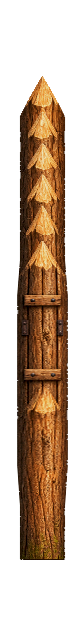
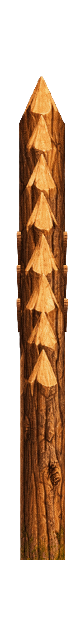
fix(art): correct edge-on palisade gate perspective
Preserve eight pointed stakes and a flat base, with subtle lateral wooden slat tops only. Reuse the same right-lit 84x630 RGBA sprite for east and west; retain placement anchors and update caches.

diff --git a/index.html b/index.html
@@ -408,11 +408,11 @@ Ihre Form wird ausschließlich im Bergwerkzeug eingestellt. Ihre Deckkraft folgt
 window.VedrasCloudsDisabled=new URLSearchParams(location.search).get('clouds')!=='1';</script>
 <script src="asset-image-pool.js?v=0.3.1&amp;step11=20261028"></script><script src="render-quality-policy.js?v=0.1.0&amp;terrain=quality-source-20261117"></script><script src="gpu-terrain.js?v=0.2.0&amp;uvHighp=20261122"></script><script src="strategic-view.js?v=0.1.0"></script><script src="static-terrain-cache.js?v=0.1.0"></script><script src="render-benchmark-profiler.js?v=0.1.0"></script>
 <script src="render-step15-trace.js?v=0.1.0"></script>
-<script src="sprite-atlas-runtime.js?v=0.3.0"></script><script src="worldgen-geography.js?v=2.1.2"></script><script src="geography-io.js?v=20261120-io-v1"></script><script src="catalog.js?v=0.18.0"></script><script src="terrain-source-rules.js?v=0.18.0"></script><script src="water-texture.js?v=20261119-forest-seamless-v2"></script><script src="autotile.js?v=20261119-ground-wrap-v1"></script><script src="chunks.js?v=0.37.1&amp;step16b=20261101-offscreen1"></script><script src="terrain-worker-client.js?v=20261119-ground-wrap-v1"></script><script src="nature_catalog.js?v=20261121-desert-trees-v1"></script><script src="flora-plan.js?v=0.17.0"></script><script src="terrain-plan.js?v=0.18.0"></script><script src="sprite-planner.js?v=0.16.0"></script><script src="existing-asset-rules.js?v=20261121-desert-trees-v1"></script><script src="forest.js?v=20261122-canopy-variation-v1"></script><script src="forest-ground.js?v=20261120-organic-v1&amp;softSnow=20261122"></script><script src="nature-balance.js?v=0.36.1"></script><script src="polish.js?v=0.21.0"></script><script src="relief.js?v=0.35.0"></script><script src="shoreline.js?v=0.30.1&amp;artfix=20261027"></script><script src="river.js?v=0.30.0"></script><script src="river-banks.js?v=0.2.0"></script><script src="mountain.js?v=0.11.0"></script><script src="roads.js?v=0.31.0"></script><script src="walls.js?v=20261124-palisade-gates-ai-v4&amp;palisadeGates=20261124-ne-refined-v7"></script><script src="bridges.js?v=0.28.0"></script><script src="shadow-tone.js?v=20261122-shadow-union-v1"></script><script src="shadow-system.js?v=20261122-gray-all-v1"></script><script src="shadow-shapes.js?v=20261122-gray-all-v1"></script><script src="sprite-shadow-editor.js?v=20261122-shadow-union-v1"></script><script src="shadow-painter-ui.js?v=0.1.0"></script><script src="object-layout-cache.js?v=0.2.0"></script><script src="static-object-layer.js?v=0.2.0"></script><script src="gpu-sprite-layer.js?v=0.1.0"></script><script src="frame-preparation-cache.js?v=0.1.0"></script><script src="adaptive-lod.js?v=0.1.1&amp;step10=20261027"></script><script src="realtime-map-renderer.js?v=0.1.1"></script><script src="cloud-artwork.js?v=0.22.4&amp;step12=20261028"></script><script src="fog-atmosphere.js?v=0.22.4"></script><script src="quick-terrain-preview.js?v=20261101-1"></script>
+<script src="sprite-atlas-runtime.js?v=0.3.0"></script><script src="worldgen-geography.js?v=2.1.2"></script><script src="geography-io.js?v=20261120-io-v1"></script><script src="catalog.js?v=0.18.0"></script><script src="terrain-source-rules.js?v=0.18.0"></script><script src="water-texture.js?v=20261119-forest-seamless-v2"></script><script src="autotile.js?v=20261119-ground-wrap-v1"></script><script src="chunks.js?v=0.37.1&amp;step16b=20261101-offscreen1"></script><script src="terrain-worker-client.js?v=20261119-ground-wrap-v1"></script><script src="nature_catalog.js?v=20261121-desert-trees-v1"></script><script src="flora-plan.js?v=0.17.0"></script><script src="terrain-plan.js?v=0.18.0"></script><script src="sprite-planner.js?v=0.16.0"></script><script src="existing-asset-rules.js?v=20261121-desert-trees-v1"></script><script src="forest.js?v=20261122-canopy-variation-v1"></script><script src="forest-ground.js?v=20261120-organic-v1&amp;softSnow=20261122"></script><script src="nature-balance.js?v=0.36.1"></script><script src="polish.js?v=0.21.0"></script><script src="relief.js?v=0.35.0"></script><script src="shoreline.js?v=0.30.1&amp;artfix=20261027"></script><script src="river.js?v=0.30.0"></script><script src="river-banks.js?v=0.2.0"></script><script src="mountain.js?v=0.11.0"></script><script src="roads.js?v=0.31.0"></script><script src="walls.js?v=20261124-palisade-gates-ai-v4&amp;palisadeGates=20261124-edge-on-v8"></script><script src="bridges.js?v=0.28.0"></script><script src="shadow-tone.js?v=20261122-shadow-union-v1"></script><script src="shadow-system.js?v=20261122-gray-all-v1"></script><script src="shadow-shapes.js?v=20261122-gray-all-v1"></script><script src="sprite-shadow-editor.js?v=20261122-shadow-union-v1"></script><script src="shadow-painter-ui.js?v=0.1.0"></script><script src="object-layout-cache.js?v=0.2.0"></script><script src="static-object-layer.js?v=0.2.0"></script><script src="gpu-sprite-layer.js?v=0.1.0"></script><script src="frame-preparation-cache.js?v=0.1.0"></script><script src="adaptive-lod.js?v=0.1.1&amp;step10=20261027"></script><script src="realtime-map-renderer.js?v=0.1.1"></script><script src="cloud-artwork.js?v=0.22.4&amp;step12=20261028"></script><script src="fog-atmosphere.js?v=0.22.4"></script><script src="quick-terrain-preview.js?v=20261101-1"></script>
 <script src="frozen-map-package.js?v=20261101-2"></script>
 <script src="authored-world-contract.js?v=20261118-semantic-world-v1"></script>
 <script src="frozen-map-runtime.js?v=20261118-near-archive-audit-v4&amp;edgePolicy=20261119&amp;linkedAudit=20261122&amp;coreScene=20261122"></script>
 <script src="frozen-ground-core-seams.js?v=20261120-owned-core-gate-v1&amp;hexTip=20261122"></script>
 <script src="world-tile-streamer.js?v=0.22.6&amp;fix=exact-lod-20261117&amp;clouds=off-20261120&amp;coreFilter=20261122"></script>
-<script src="world-tile-ground-reuse.js?v=0.1.0"></script><script src="app.js?v=20261120-organic-v1&amp;diagnostics=20261121&amp;shadows=partial-20261121&amp;edgeCore=20261122&amp;localPreview=20261122&amp;softSnow=20261122&amp;grayAll=20261122&amp;shadowUnion=20261122&amp;footGate=20261122&amp;walls=20261124-palisade-gates-ai-v4&amp;palisadeGates=20261124-ne-refined-v7&amp;coreScene=20261122&amp;geography=2.1.2&amp;geographyIO=20261120&amp;clouds=off-20261120"></script><script src="nature-ui.js?v=20261122-open-trees-v1&amp;alpineShrubs=20261122&amp;wallClear=20261124"></script><script src="road-ui.js?v=0.28.0"></script><script src="wall-ui.js?v=20261124-palisade-gates-ai-v4"></script><script src="ui-organizer.js?v=20261122-shadow-gray-shortcut-v1"></script><script src="forest-ui.js?v=20261122-canopy-variation-v1"></script><script src="river-ui.js?v=0.15.0"></script><script src="flora-workspace.js?v=0.13.0"></script>
+<script src="world-tile-ground-reuse.js?v=0.1.0"></script><script src="app.js?v=20261120-organic-v1&amp;diagnostics=20261121&amp;shadows=partial-20261121&amp;edgeCore=20261122&amp;localPreview=20261122&amp;softSnow=20261122&amp;grayAll=20261122&amp;shadowUnion=20261122&amp;footGate=20261122&amp;walls=20261124-palisade-gates-ai-v4&amp;palisadeGates=20261124-edge-on-v8&amp;coreScene=20261122&amp;geography=2.1.2&amp;geographyIO=20261120&amp;clouds=off-20261120"></script><script src="nature-ui.js?v=20261122-open-trees-v1&amp;alpineShrubs=20261122&amp;wallClear=20261124"></script><script src="road-ui.js?v=0.28.0"></script><script src="wall-ui.js?v=20261124-palisade-gates-ai-v4"></script><script src="ui-organizer.js?v=20261122-shadow-gray-shortcut-v1"></script><script src="forest-ui.js?v=20261122-canopy-variation-v1"></script><script src="river-ui.js?v=0.15.0"></script><script src="flora-workspace.js?v=0.13.0"></script>
 </body></html>

diff --git a/walls.js b/walls.js
@@ -332,7 +332,8 @@ window.VedrasWalls=(()=>{
    pending.push(new Promise(resolve=>{
     image.onload=()=>resolve(true);image.onerror=()=>resolve(false);
     image.src='assets/walls/palisade/gates/v1/gate_dir'+side+'.png?v='+
-     (side===0?'20261124-timber-gate-ne-refined-v7':
+     ((side===1||side===4)?'20261124-timber-gates-edge-on-v8':
+      side===0?'20261124-timber-gate-ne-refined-v7':
       (side===2||side===3)?'20261124-timber-gates-south-stage1-v5':'20261124-timber-gates-stage2-v6');
    }));
   }

diff --git a/app.js b/app.js
@@ -4425,6 +4425,7 @@ function frozenSceneKey({force4x=false}={}){
   'palisade-ai-south-stage1-v5',
   'palisade-ai-complete-stage2-v6',
   'palisade-ai-ne-refined-v7',
+  'palisade-ai-edge-on-v8',
   'forest-floor-wrap-v1',
   'organic-forest-fringes-and-soft-snow-v4',
   // Strict source-core alpha stabilization and read-only seam publication

diff --git a/assets/walls/palisade/gates/v1/README.md b/assets/walls/palisade/gates/v1/README.md
@@ -1,7 +1,9 @@
-# Closed palisade gates — complete AI raster set, NE refinement v7
+# Closed palisade gates — complete AI raster set, edge-on refinement v8
 
-All six directions use independently generated AI raster gate artwork, except direction 5, which reuses the exact direction 2 PNG bytes with its own existing anchor. The accepted original palisade edge WebPs are the reference artwork. No SVG, procedural gate drawing, or compositing of separate timber images is used in these candidates. Historical v4 composition scripts are not a source for the new set.
+The active gate set uses AI raster artwork. Direction 5 reuses the exact direction 2 PNG bytes; directions 1 and 4 reuse the same edge-on v8 PNG, retaining their own existing anchors. The accepted original palisade edge WebPs are the reference artwork. No SVG, procedural gate drawing, or compositing of separate timber images is used in these candidates. Historical v4 composition scripts are not a source for the new set.
 
-Original canvas dimensions and render anchors are retained: 420 × 444 px (0), 84 × 630 px (1, 4), 423 × 444 px (2, 3, 5). Technical preparation uses whole-image geometric calibration, alpha cleanup and modest palette matching. Directions 1 and 4 are independent, non-mirrored edge-on renderings with narrow reinforcement. The original walls, stone assets, joints, shadows and vegetation clearance logic remain unchanged.
+Original canvas dimensions and render anchors are retained: 420 × 444 px (0), 84 × 630 px (1, 4), 423 × 444 px (2, 3, 5). Technical preparation uses whole-image geometric calibration, alpha cleanup and modest palette matching. Directions 1 and 4 use one newly AI-edited edge-on sprite based on the uploaded original palisades, with all eight pointed tips and a flat foot retained, and only three subtle lateral wooden slat ends on each side. The sprite is reused without mirroring to retain consistent lighting; no front-facing gate panels, metal fittings or transverse bars are present. The original walls, stone assets, joints, shadows and vegetation clearance logic remain unchanged.
 
 NE v7 replaces the earlier twelve-tip candidate with a newly generated ten-tip painting, following the original descending hex projection. Both outer foot points match the reference to within one raster pixel in Y; the two horizontal rails follow the descending edge and remain straight. All six candidate sprites have one connected alpha silhouette and no partially transparent interior pixels (two-pixel boundary excluded), and have been checked against light, dark and green backgrounds. Some texture, tip positions and internal baseline steps still differ from the original walls. Exact visual equivalence and complete browser/editor acceptance are not claimed.
+
+Edge-on v8: 84 × 630 RGBA; occupied vertical span y=76–559 matches the original. The lateral detail widens the silhouette by roughly 3–4 raster pixels. The generated gate was cropped from a comparison image and calibrated as one complete raster, without compositing timber parts. Texture is AI-redrawn, not pixel-identical to the original. Actual editor visual approval remains pending.
